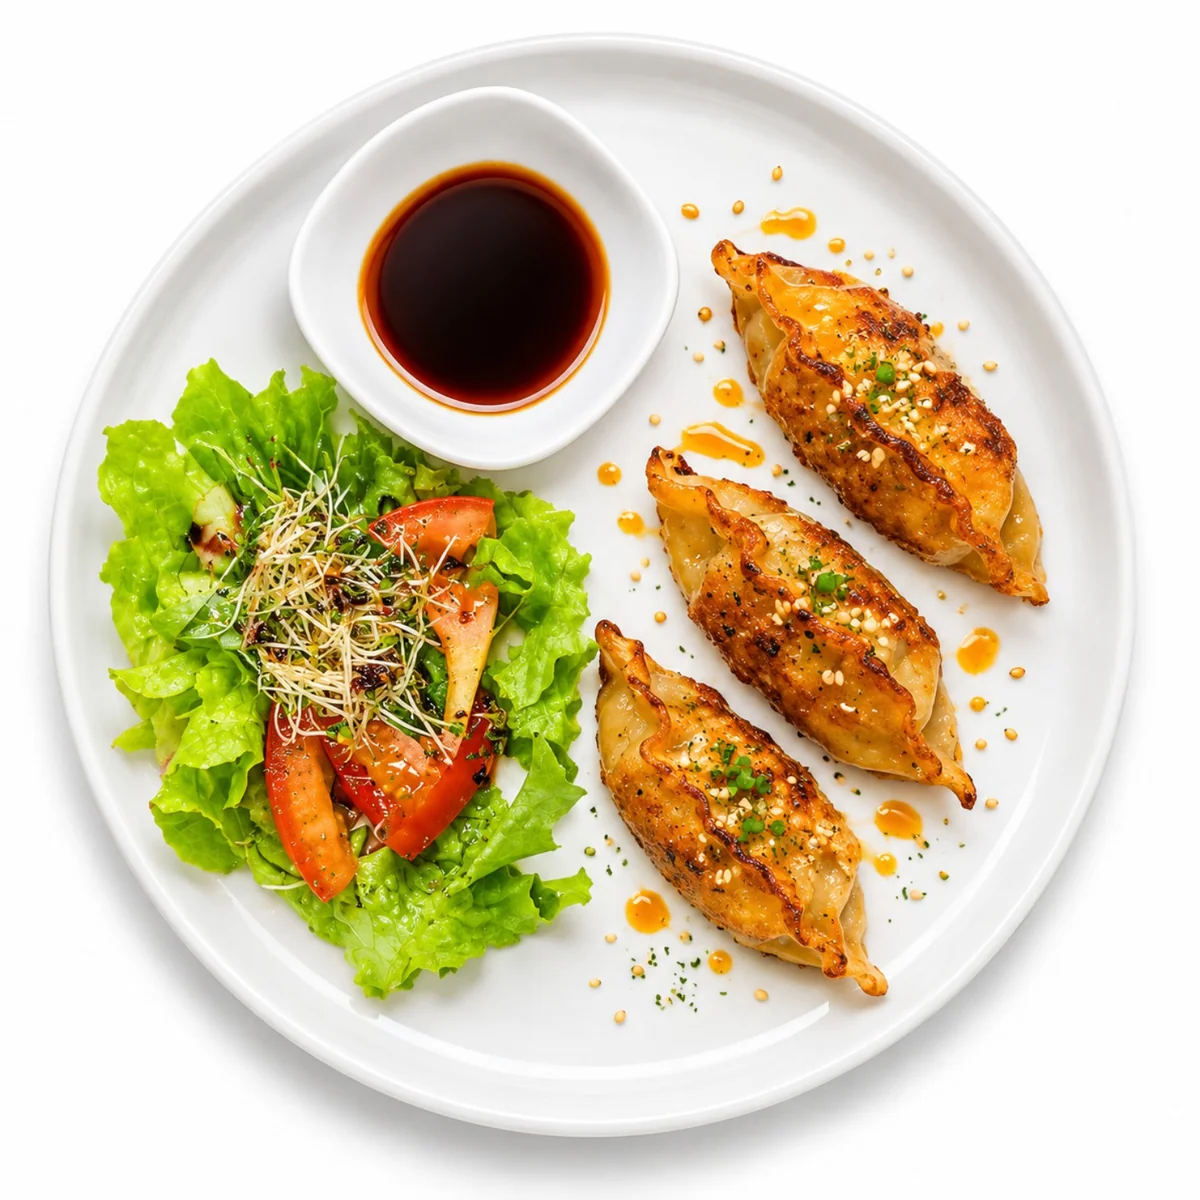
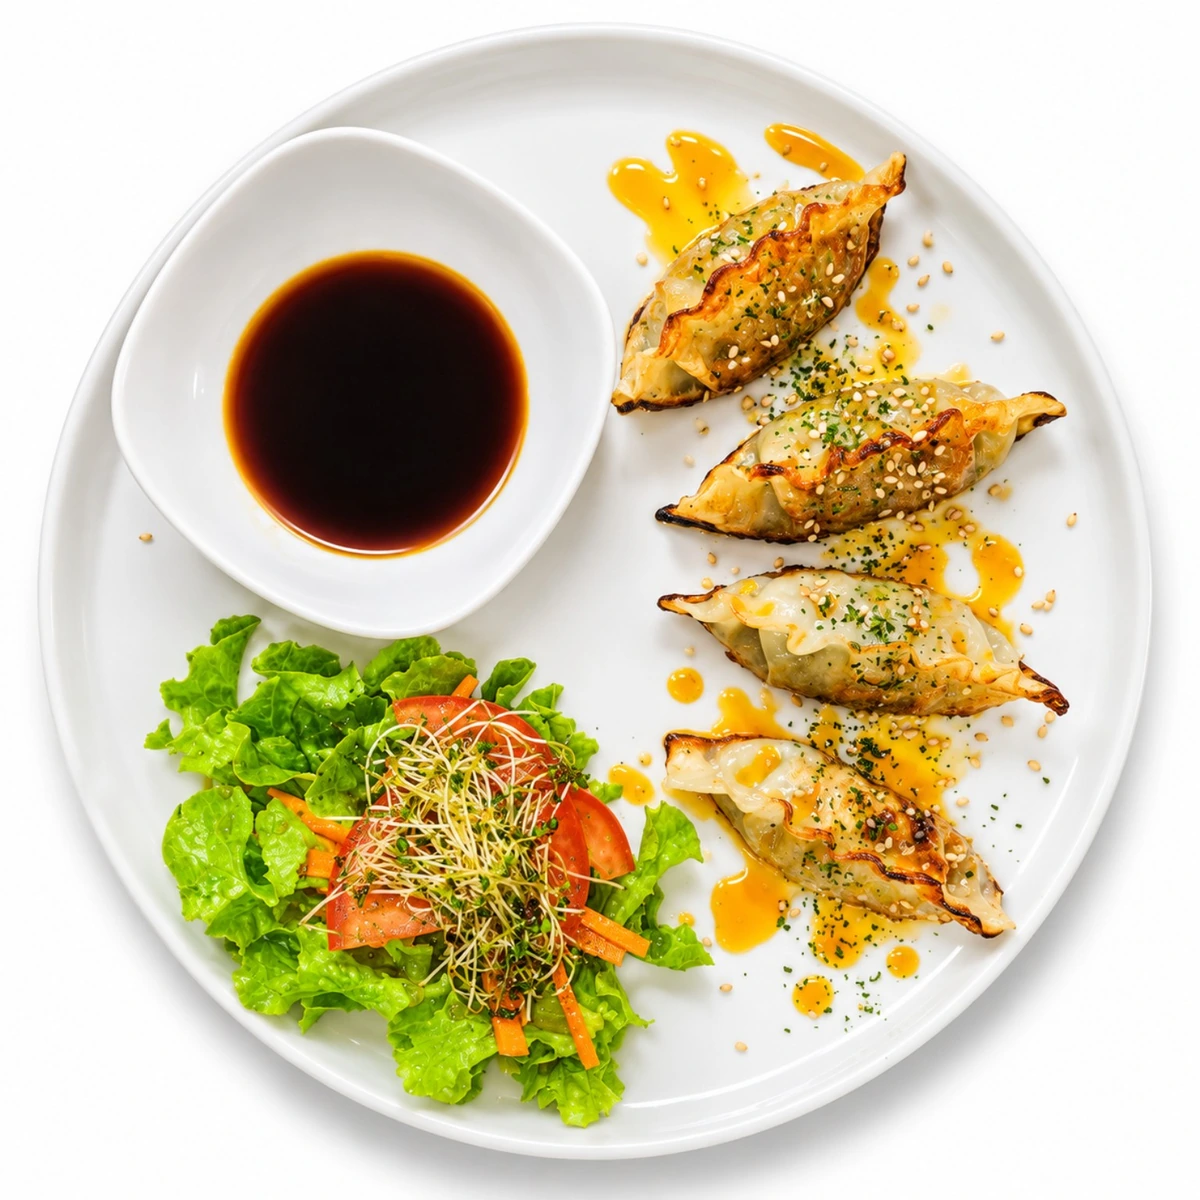
feat(menu): Gyozas en miel de naranja en Platos fuertes

diff --git a/js/menu-data.js b/js/menu-data.js
@@ -34,6 +34,14 @@ window.MENU_DATA = [
         image: "ramen.webp"
       },
       {
+        name: "Gyozas en miel de naranja",
+        price: null,
+        comingSoon: true,
+        description: "Gyozas rellenas de vegetales con cerdo · salsa de anguila · ensalada · miel de naranja · aceite de perejil · aceite de sésamo",
+        tag: "Nuevo",
+        image: "gyozas-miel-de-naranja.webp"
+      },
+      {
         name: "Tacos de pollo",
         price: "6,00",
         description: "Sofrito de pollo desmenuzado · salsa ahumada · tortillas",
@@ -68,14 +76,6 @@ window.MENU_DATA = [
   {
     category: "Entradas",
     items: [
-      {
-        name: "Gyozas en miel de naranja",
-        price: null,
-        comingSoon: true,
-        description: "Gyozas rellenas de cerdo con vegetales · ensalada · salsa de soja",
-        tag: "Nuevo",
-        image: "gyozas-miel-de-naranja.webp"
-      },
       {
         name: "Papas fritas",
         price: "1,50",

diff --git a/index.html b/index.html
@@ -14,8 +14,8 @@
   <link rel="preconnect" href="https://fonts.gstatic.com" crossorigin>
   <link href="https://fonts.googleapis.com/css2?family=Cormorant+Garamond:wght@600;700&family=Jost:wght@300;400;500;600&display=swap" rel="stylesheet">
   <link rel="stylesheet" href="css/styles.css?v=20261028-photos-v2">
-  <script src="js/menu-data.js?v=20261106-gyozas-miel-naranja" defer></script>
-  <script src="js/app.js?v=20261028-photos-v2" defer></script>
+  <script src="js/menu-data.js?v=20261107-gyozas-plato-fuerte" defer></script>
+  <script src="js/app.js?v=20261107-gyozas-foto-nueva" defer></script>
 </head>
 <body>
   <main class="page">

diff --git a/js/app.js b/js/app.js
@@ -179,7 +179,8 @@
       image.hidden = true;
       image.removeAttribute("src");
     }, { once: true });
-    image.src = `img/${encodeURIComponent(item.image)}?v=20261028-photos-v2`;
+    const imageVersion = item.image === "gyozas-miel-de-naranja.webp" ? "20261107-gyozas-foto-nueva" : "20261028-photos-v2";
+    image.src = `img/${encodeURIComponent(item.image)}?v=${imageVersion}`;
     visual.append(image, placeholder);
     return visual;
   }
